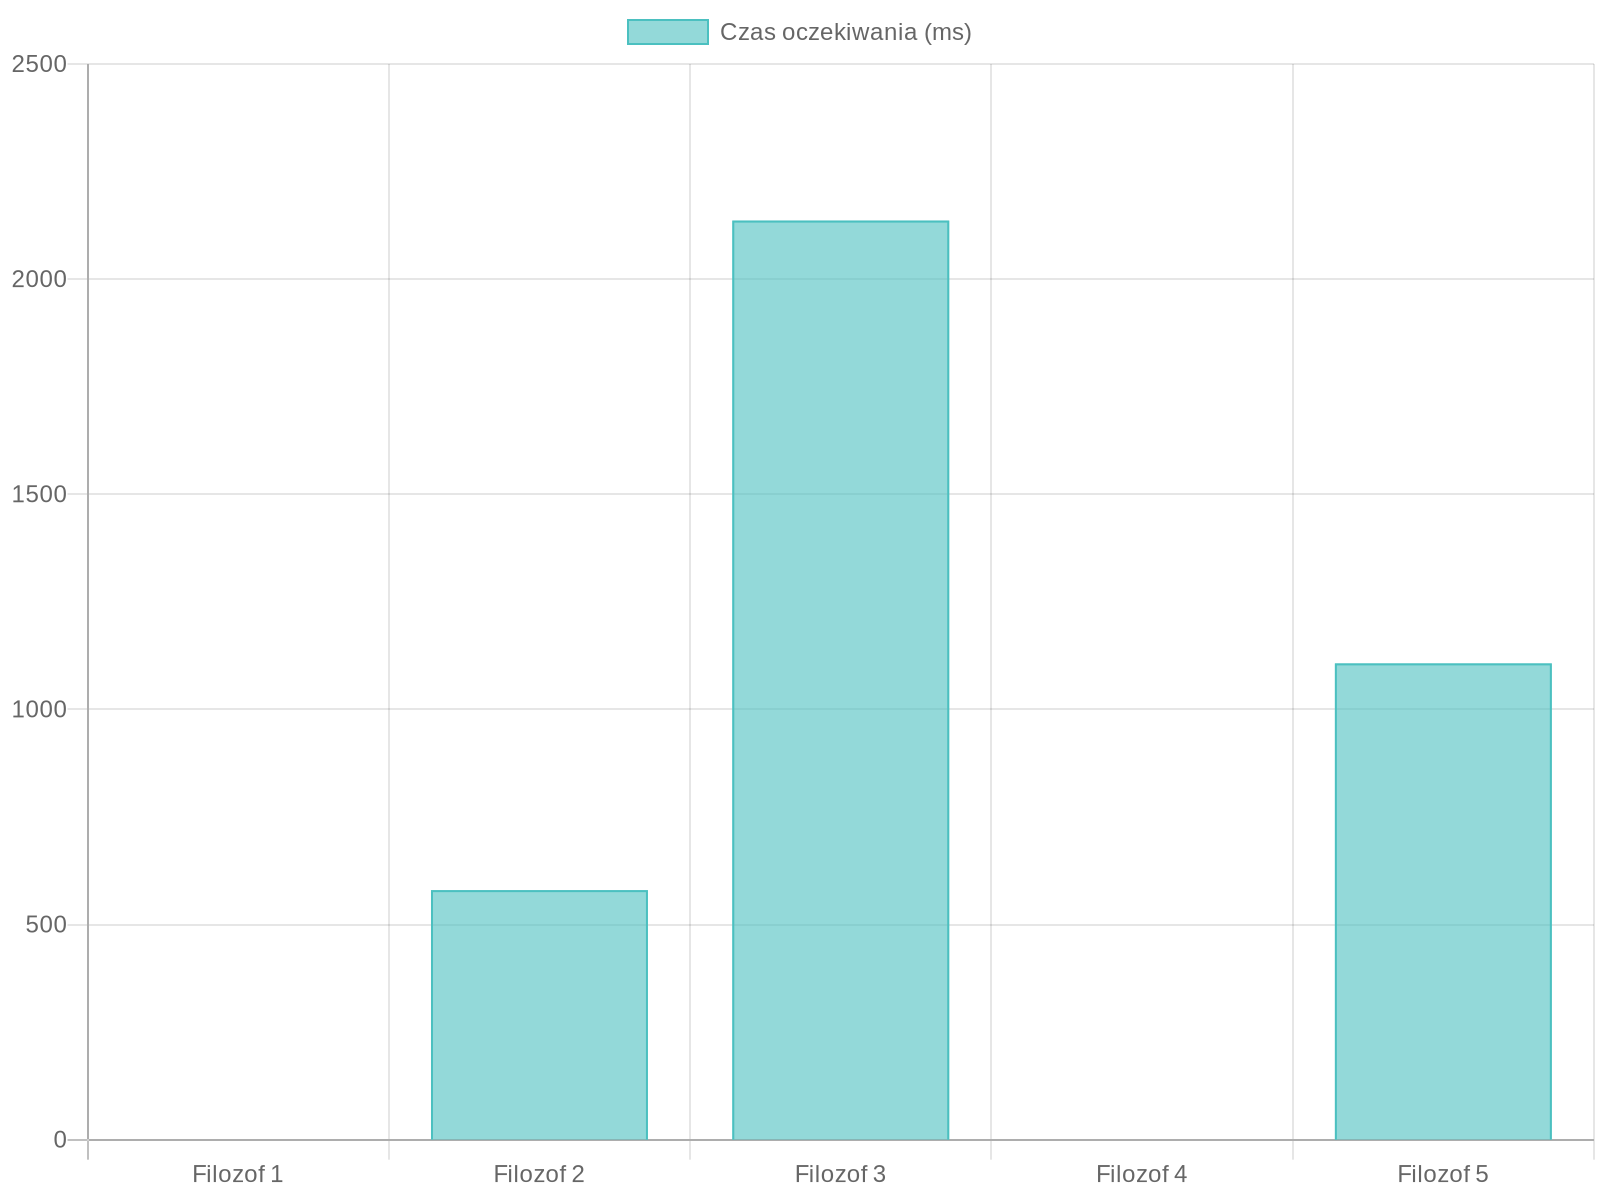
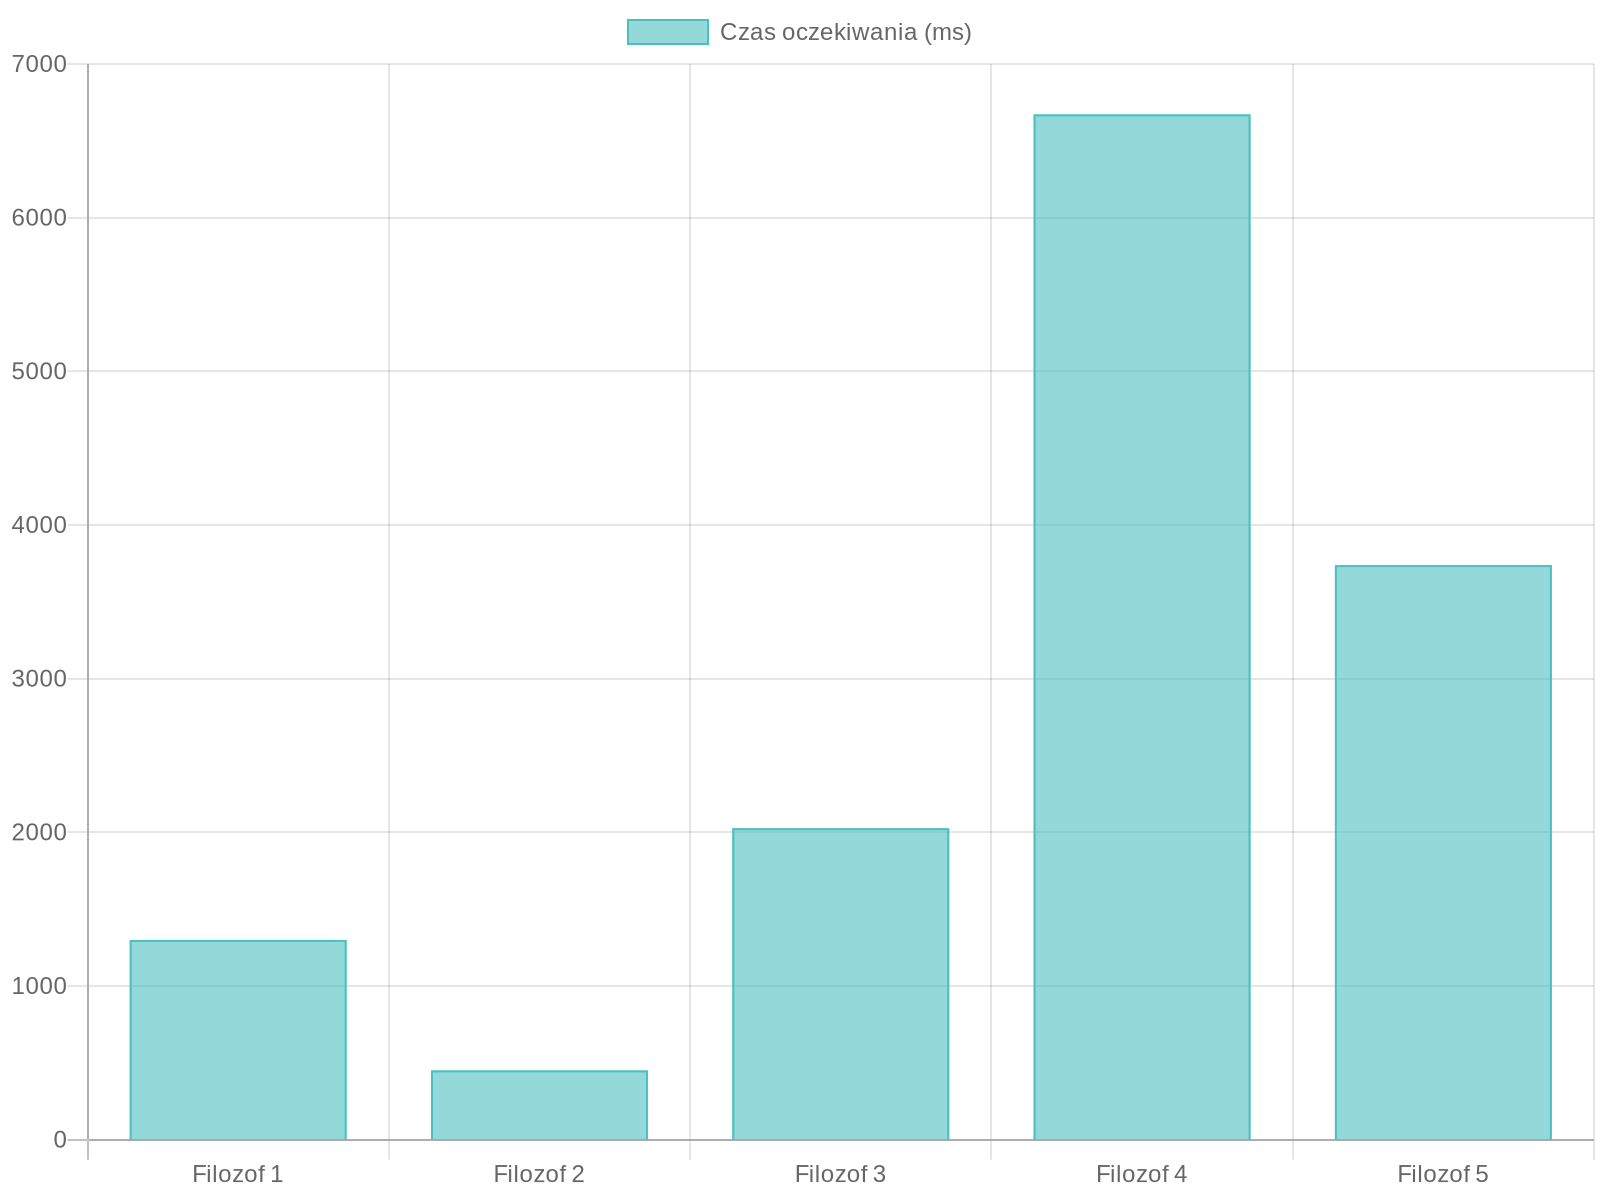
Lab7

diff --git a/Lab7/main.js b/Lab7/main.js
@@ -11,13 +11,14 @@ var Fork = function() {
 Fork.prototype.acquire = function (philosopherId, metrics, cb) {
     const startTime = Date.now();
     const tryAcquire = (delay) => {
-        if (this.state === 0) {
+        console.log(`Filozof ${philosopherId} próbuje podnieść widelec, delay: ${delay}`);
+        setTimeout(() => {if (this.state === 0) {
             this.state = 1;
             metrics.waitingTime[philosopherId] += Date.now() - startTime; // Czas oczekiwania
             cb();
         } else {
             setTimeout(() => tryAcquire(delay * 2), delay);
-        }
+        }}, delay);
     };
     tryAcquire(1);
 }
@@ -41,11 +42,9 @@ Philosopher.prototype.startNaive = function (count,metrics) {
 
         this.forks[this.f1].acquire(this.id,metrics,() => {
             this.forks[this.f2].acquire(this.id,metrics,() => {
-                console.log(`Philosopher ${this.id} is eating`);
                 setTimeout(() => {
                     this.forks[this.f1].release();
                     this.forks[this.f2].release();
-                    console.log(`Philosopher ${this.id} finished eating`);
                     eatCycle(i + 1);
                 }, Math.random() * 100);
             });
@@ -64,11 +63,9 @@ Philosopher.prototype.startAsym = function (count,metrics) {
 
         this.forks[first].acquire(this.id,metrics,() => {
             this.forks[second].acquire(this.id,metrics,() => {
-                console.log(`Philosopher ${this.id} is eating`);
                 setTimeout(() => {
                     this.forks[first].release();
                     this.forks[second].release();
-                    console.log(`Philosopher ${this.id} finished eating`);
                     eatCycle(i + 1);
                 }, Math.random() * 100);
             });
@@ -86,13 +83,13 @@ var Conductor = function (limit) {
 Conductor.prototype.acquire = function (philosopherId,metrics,cb) {
     const startTime = Date.now();
     const tryAcquire = (delay) => {
-        if (this.current < this.limit) {
+        setTimeout(() => {if (this.current < this.limit) {
             this.current++;
             metrics.waitingTime[philosopherId] += Date.now() - startTime;
             cb();
         } else {
-            setTimeout(() => tryAcquire(delay * 2), delay); // Retry with double delay
-        }
+            setTimeout(() => tryAcquire(delay * 2), delay);
+        }}, delay);
     };
     tryAcquire(1);
 };
@@ -110,12 +107,10 @@ Philosopher.prototype.startConductor = function (count,metrics) {
         conductor.acquire(this.id,metrics,() => {
             this.forks[this.f1].acquire(this.id,metrics,() => {
                 this.forks[this.f2].acquire(this.id,metrics,() => {
-                    console.log(`Philosopher ${this.id} is eating`);
                     setTimeout(() => {
                         this.forks[this.f1].release();
                         this.forks[this.f2].release();
                         conductor.release();
-                        console.log(`Philosopher ${this.id} finished eating`);
                         eatCycle(i + 1);
                     }, Math.random() * 100);
                 });
